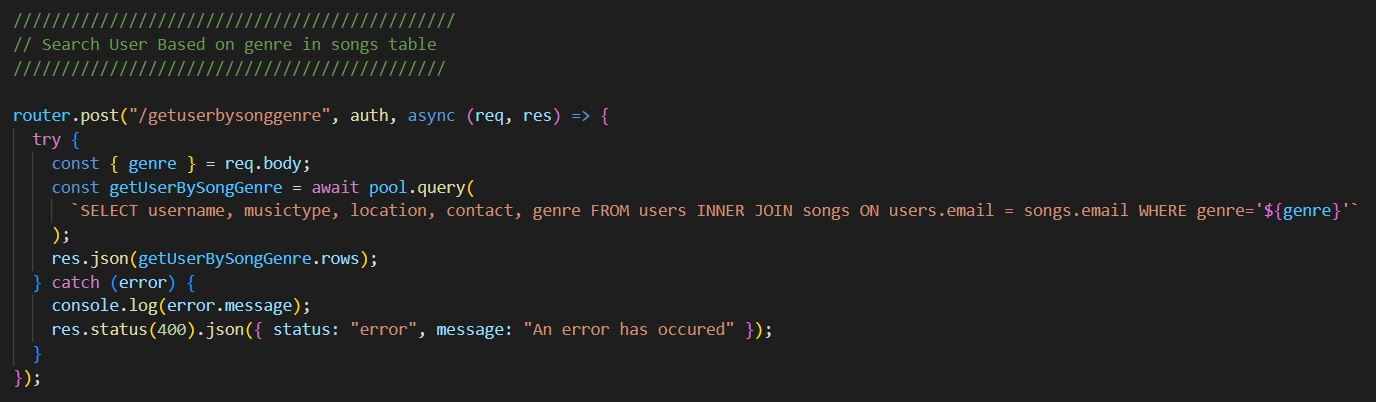
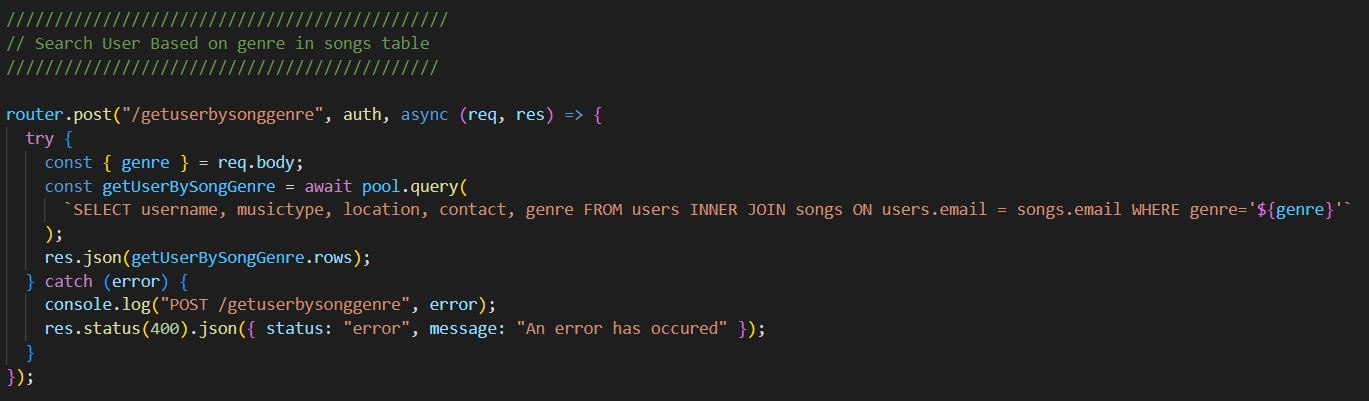
Update comments, logs, README

diff --git a/server/controller/users.js b/server/controller/users.js
@@ -83,7 +83,7 @@ router.post(
       );
       res.json(response);
     } catch (error) {
-      console.log("POST /users/login " + error);
+      console.log("POST /login", error);
       res.status(400).json({ status: "error", message: "Login failed" });
     }
   }
@@ -118,8 +118,12 @@ router.post(
         "SELECT * FROM users WHERE email = $1",
         [email]
       );
-      console.log(existingUser.rows); // find if user exists or password inputs match
+      // console.log(existingUser.rows);
+      // find if user exists or password inputs match
       if (existingUser.rows.length !== 0 || password !== password1) {
+        console.log(
+          "Error: Email address is already used or password inputs do not match"
+        );
         return res.status(400).json({
           status: "error",
           message:
@@ -135,7 +139,7 @@ router.post(
 
       res.json(newUser.rows);
     } catch (error) {
-      console.log("POST /createuser ", error);
+      console.log("POST /createuser", error);
       res
         .status(400)
         .json({ status: "error", message: "An error has occured" });
@@ -148,18 +152,18 @@ router.post(
 // Uncomment below to seed users without hashed password for developer use
 //////////////////////////////////////////////////////////////////////////////////
 
-router.post("/seedusers", auth, async (req, res) => {
-  try {
-    const seedUsers = await pool.query(
-      "INSERT INTO users (username, password, email, contact, musictype, location) VALUES('Tester1', 'helloworld12', 'tester1@gmail.com', 'tester1.socialmediapage.com', 'Guitarist', 'North'), ('Tester2','helloworld12', 'tester2@gmail.com', 'tester2.socialmediapage2.com', 'Keyboardist', 'South'), ('Tester3', 'helloworld12', 'tester3@gmail.com', 'tester3.socialmediapage3.com', 'Drummer', 'East'), ('Tester4', 'helloworld12', 'tester4@gmail.com', 'tester4.socialmediapage4', 'Bassist', 'West'), ('Tester5', 'helloworld12', 'tester5@gmail.com', 'tester5.socialmediapage5.com', 'Vocalist', 'Central'), ('Tester6', 'helloworld12', 'tester6@gmail.com', 'tester6.socialmediapage6.com', 'Wind Instruments', 'Central') RETURNING *"
-    );
+// router.post("/seedusers", auth, async (req, res) => {
+//   try {
+//     const seedUsers = await pool.query(
+//       "INSERT INTO users (username, password, email, contact, musictype, location) VALUES('Tester1', 'helloworld12', 'tester1@gmail.com', 'tester1.socialmediapage.com', 'Guitarist', 'North'), ('Tester2','helloworld12', 'tester2@gmail.com', 'tester2.socialmediapage2.com', 'Keyboardist', 'South'), ('Tester3', 'helloworld12', 'tester3@gmail.com', 'tester3.socialmediapage3.com', 'Drummer', 'East'), ('Tester4', 'helloworld12', 'tester4@gmail.com', 'tester4.socialmediapage4', 'Bassist', 'West'), ('Tester5', 'helloworld12', 'tester5@gmail.com', 'tester5.socialmediapage5.com', 'Vocalist', 'Central'), ('Tester6', 'helloworld12', 'tester6@gmail.com', 'tester6.socialmediapage6.com', 'Wind Instruments', 'Central') RETURNING *"
+//     );
 
-    res.json(seedUsers.rows);
-  } catch (error) {
-    console.log("POST /seedusers ", error);
-    res.status(400).json({ status: "error", message: "An error has occured" });
-  }
-});
+//     res.json(seedUsers.rows);
+//   } catch (error) {
+//     console.log("POST /seedusers ", error);
+//     res.status(400).json({ status: "error", message: "An error has occured" });
+//   }
+// });
 
 // Get all users
 router.get("/allusers", auth, async (req, res) => {
@@ -176,15 +180,6 @@ router.get("/allusers", auth, async (req, res) => {
 router.get("/getuser", auth, async (req, res) => {
   try {
     const loggedInUser = req.decoded.id;
-    // const getUser = await pool.query(
-    //   "SELECT IFNULL((SELECT * FROM users WHERE username = $1, $2), 'not found') ",
-    //   [username]
-    // );
-    // const { nullsoerror } = "not found";
-    // const getUser = await pool.query(
-    //   "SELECT IFNULL((SELECT * FROM users WHERE username = $1), '$2') ",
-    //   [username, nullsoerror]
-    // );
 
     const getUser = await pool.query("SELECT * FROM users WHERE user_id = $1", [
       loggedInUser,
@@ -224,7 +219,7 @@ router.put(
       );
       res.json(updateUser.command);
     } catch (error) {
-      console.log("PUT /updateuser ", error);
+      console.log("PUT /updateuser", error);
       res
         .status(400)
         .json({ status: "error", message: "An error has occurred" });
@@ -242,7 +237,7 @@ router.delete("/deleteuser", auth, async (req, res) => {
       );
       res.json(deleteUser.command);
     } catch (error) {
-      console.log(error.message);
+      console.log("DELETE /deleteuser", error);
       res
         .status(400)
         .json({ status: "error", message: "An error has occured" });
@@ -269,7 +264,7 @@ router.post("/getuserbyrole", auth, async (req, res) => {
 
     res.json(getUserByRole.rows);
   } catch (error) {
-    console.log(error.message);
+    console.log("POST /getuserbyrole", error);
     res.status(400).json({ status: "error", message: "An error has occured" });
   }
 });
@@ -286,7 +281,7 @@ router.post("/getuserbysonggenre", auth, async (req, res) => {
     );
     res.json(getUserBySongGenre.rows);
   } catch (error) {
-    console.log(error.message);
+    console.log("POST /getuserbysonggenre", error);
     res.status(400).json({ status: "error", message: "An error has occured" });
   }
 });
@@ -305,7 +300,7 @@ router.post("/getuserbysonglyrics", auth, async (req, res) => {
       res.json(getUserBySongLyrics.rows);
     }
   } catch (error) {
-    console.log(error.message);
+    console.log("POST /getuserbysonglyrics", error);
     res.status(400).json({ status: "error", message: "An error has occured" });
   }
 });
@@ -324,7 +319,7 @@ router.post("/getuserbysongtitle", auth, async (req, res) => {
       res.json(getUserBySongTitle.rows);
     }
   } catch (error) {
-    console.log(error.message);
+    console.log("POST /getuserbysongtitle", error);
     res.status(400).json({ status: "error", message: "An error has occured" });
   }
 });

diff --git a/server/controller/songs.js b/server/controller/songs.js
@@ -17,9 +17,9 @@ router.get("/testing", auth, async (req, res) => {
 
 // Create a song
 router.post("/addsong", auth, async (req, res) => {
-  console.log(`accessing /POST addsong`);
-  console.log(req.decoded);
-  console.log(req.body);
+  // console.log(`accessing /POST addsong`);
+  // console.log(req.decoded);
+  // console.log(req.body);
   try {
     const { title, lyrics, chords, genre } = req.body;
     const userEmail = req.decoded.email;
@@ -34,7 +34,7 @@ router.post("/addsong", auth, async (req, res) => {
       return res.status(400).json({
         status: "error",
         message: "Duplicate title, please enter a different title",
-        rows: existingTitle.rows,
+        title: existingTitle.rows,
       });
     }
 
@@ -46,7 +46,7 @@ router.post("/addsong", auth, async (req, res) => {
 
     res.json(newSong);
   } catch (error) {
-    console.log(error);
+    console.log("GET /addsong", error);
     res.status(400).json({ status: "error", message: "An error occurred" });
   }
 });
@@ -56,18 +56,18 @@ router.post("/addsong", auth, async (req, res) => {
 // Uncomment below to seed songs for developer use
 ////////////////////////////////////////////////////////
 
-router.post("/seedsongs", auth, async (req, res) => {
-  try {
-    const seedSongs = await pool.query(
-      "INSERT INTO songs (title, lyrics, chords, genre, email) VALUES('Apple Fruit', 'awesome random lyrics test', 'Verse: Am C F G', 'Classic Rock', 'tester1@gmail.com'), ('Best Day To Cycle', 'best random lyrics test', 'Verse: Am C F G', 'Indie', 'tester1@gmail.com'), ('Climb and Clam', 'climb random lyrics test', 'Verse: Am C F G', 'Indie', 'tester2@gmail.com'), ('Dive and Damp', 'dive random lyrics test', 'Verse: Am C F G', 'Classic Rock', 'tester2@gmail.com'), ('Excellent Experiment', 'experiment random lyrics test', 'Verse: Am C F G', 'Alternative Rock', 'tester3@gmail.com'), ('Fast Flying', 'fast random lyrics test', 'Verse: Am C F G', 'Grunge', 'tester3@gmail.com'), ('Grandpa', 'grand random lyrics test', 'Verse: Am C F G', 'Grunge', 'tester5@gmail.com'), ('High Gravel', 'high random lyrics test', 'Verse: Am C F G', 'Pop', 'tester4@gmail.com'), ('Isometric', 'isometric random lyrics test', 'Verse: Am C F G', 'Pop', 'tester6@gmail.com')"
-    );
+// router.post("/seedsongs", auth, async (req, res) => {
+//   try {
+//     const seedSongs = await pool.query(
+//       "INSERT INTO songs (title, lyrics, chords, genre, email) VALUES('Apple Fruit', 'awesome random lyrics test', 'Verse: Am C F G', 'Classic Rock', 'tester1@gmail.com'), ('Best Day To Cycle', 'best random lyrics test', 'Verse: Am C F G', 'Indie', 'tester1@gmail.com'), ('Climb and Clam', 'climb random lyrics test', 'Verse: Am C F G', 'Indie', 'tester2@gmail.com'), ('Dive and Damp', 'dive random lyrics test', 'Verse: Am C F G', 'Classic Rock', 'tester2@gmail.com'), ('Excellent Experiment', 'experiment random lyrics test', 'Verse: Am C F G', 'Alternative Rock', 'tester3@gmail.com'), ('Fast Flying', 'fast random lyrics test', 'Verse: Am C F G', 'Grunge', 'tester3@gmail.com'), ('Grandpa', 'grand random lyrics test', 'Verse: Am C F G', 'Grunge', 'tester5@gmail.com'), ('High Gravel', 'high random lyrics test', 'Verse: Am C F G', 'Pop', 'tester4@gmail.com'), ('Isometric', 'isometric random lyrics test', 'Verse: Am C F G', 'Pop', 'tester6@gmail.com')"
+//     );
 
-    res.json(seedSongs);
-  } catch (error) {
-    console.log(error);
-    res.status(400).json({ status: "error", message: "An error occurred" });
-  }
-});
+//     res.json(seedSongs);
+//   } catch (error) {
+//     console.log(error);
+//     res.status(400).json({ status: "error", message: "An error occurred" });
+//   }
+// });
 
 // View all songs
 router.get("/allsongs", auth, async (req, res) => {
@@ -78,15 +78,15 @@ router.get("/allsongs", auth, async (req, res) => {
     );
     res.json(allSongs.rows);
   } catch (error) {
-    console.log("GET /allsongs ", error);
+    console.log("GET /allsongs", error);
     res.status(400).json({ status: "error", message: "An error has occured" });
   }
 });
 
 // View one song
 router.post("/getsong", auth, async (req, res) => {
-  console.log("view one song");
-  console.log(req.body);
+  // console.log("view one song");
+  // console.log(req.body);
   try {
     const userEmail = req.decoded.email;
     const { title } = req.body;
@@ -103,7 +103,7 @@ router.post("/getsong", auth, async (req, res) => {
         .json({ status: "error", message: "Please key in an input." });
     }
   } catch (error) {
-    console.log("GET /getsong ", error);
+    console.log("GET /getsong", error);
     res.status(400).json({ status: "error", message: "An error has occured" });
   }
 });
@@ -119,7 +119,7 @@ router.put("/updatesong", auth, async (req, res) => {
     );
     res.json(updateSong);
   } catch (error) {
-    console.log("PUT /updatesong ", error);
+    console.log("PUT /updatesong", error);
     res.status(400).json({ status: "error", message: "An error has occured" });
   }
 });
@@ -136,7 +136,7 @@ router.delete("/deletesong", auth, async (req, res) => {
     );
     res.json(deleteSong);
   } catch (error) {
-    console.log("DELETE /deletesong ", error);
+    console.log("DELETE /deletesong", error);
     res.status(400).json({ status: "error", message: "An error has occured" });
   }
 });

diff --git a/client/src/components/UpdateLoggedInUserModal.js b/client/src/components/UpdateLoggedInUserModal.js
@@ -6,10 +6,9 @@ import ReactContext from "../context/react.context";
 const UpdateLoggedInUserModal = (props) => {
   const reactCtx = useContext(ReactContext);
 
-  const [emailInput, setEmailInput] = useState("");
   const [passwordInput, setPasswordInput] = useState("");
   const [password1Input, setPassword1Input] = useState("");
-  const [userNameInput, setUserNameInput] = useState("");
+  const [userNameInput, setUserNameInput] = useState();
   const [musicTypeInput, setMusicTypeInput] = useState("");
   const [locationInput, setLocationInput] = useState("");
   const [contactInput, setContactInput] = useState("");
@@ -25,6 +24,7 @@ const UpdateLoggedInUserModal = (props) => {
   // Update User
   /////////////////////////////////////////
 
+  console.log(userNameInput);
   const updateUserToDb = async () => {
     setIsLoading(true);
     setError(null);
@@ -167,7 +167,7 @@ const UpdateLoggedInUserModal = (props) => {
                     value={userNameInput}
                     onChange={handleUserNameInput}
                     type="text"
-                    placeholder="Enter Name Here"
+                    placeholder="Enter User Name Here"
                   />
                 </div>
               </div>
@@ -231,7 +231,7 @@ const UpdateLoggedInUserModal = (props) => {
                 <div className="col-sm-3">
                   <label>Optional Contact Info : </label>
                 </div>
-                <div className="col-sm-7">
+                <div className="col-sm-8">
                   <input
                     name="contact"
                     value={contactInput}
@@ -241,6 +241,7 @@ const UpdateLoggedInUserModal = (props) => {
                   />
                 </div>
               </div>
+              <br />
               <div className="row">
                 <div className="col-sm-3">
                   <label>Optional Location: </label>
